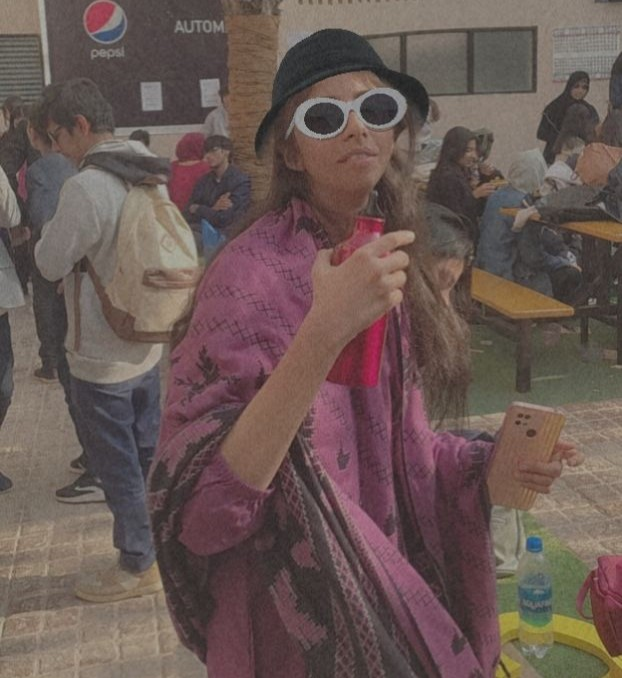
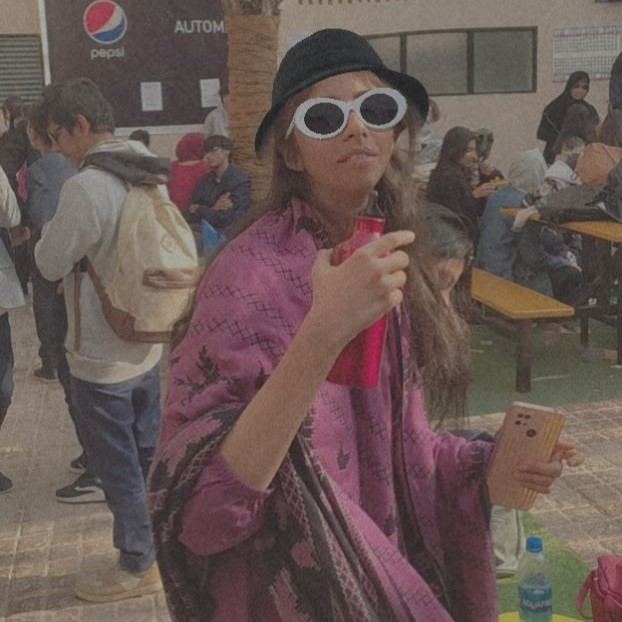
Styled nav bar and main page

diff --git a/style.css b/style.css
@@ -2,8 +2,81 @@
     margin: 0;
     padding: 0;
     box-sizing: border-box;
-    font-family: 'Salsa', cursive;
+    font-family: 'Crete Round', serif;         
+    /* font-family: 'Salsa', cursive; */
+    /* font-family: 'Ubuntu', sans-serif;  */
+    color: #402B3A;
+    color: #3E001F;
 }
-body{
-    background-color: #FF9BD2;
+body {
+    background-image: linear-gradient(90deg, #ff81c6, #ffa1d5);
 }
+
+nav {
+    display: flex;
+    justify-content: center;
+    background: linear-gradient(180deg, #D63484 0%, #D63484 90%, transparent 100%);
+    margin-bottom: 50px;
+}
+
+
+ul{
+    display: flex;
+    justify-content: center;
+    
+}
+ul > li{
+    list-style: none;
+    padding: 20px 10px;
+    font-size: 24px;
+    margin: 0px 15px;
+    cursor: pointer;
+    transition: linear 100ms;
+}
+ul > li:hover{
+    transform: scale(1.2);
+}
+.land{
+    display: flex;
+    /* flex-direction: column; */
+    justify-content: center;
+    align-items: center;
+}
+.image-land > img{
+    border-radius: 5%;
+    height: 570px;
+}
+.items-land{
+    margin: 0px 30px;
+}
+.txt-land > h1{
+    font-size: 50px;
+    font-weight: 100;
+}
+.txt-land > p{
+    font-size: 35px;
+    margin-top: 20px;
+    text-align: center;
+}
+.name{
+
+    font-size: 57px;
+    color: #270303;
+    margin-left: 4px;
+    font-weight: 600;
+
+}
+.txt-land{
+    /* text-align: center; */
+    position: relative;
+    bottom: 20px;
+}
+/* .pakistan{
+    background-image: linear-gradient(90deg, #2e7a10, #2ac603);
+    background-color: #f3ec78;
+    background-size: 100%;
+    -webkit-background-clip: text;
+    -moz-background-clip: text;
+    -webkit-text-fill-color: transparent; 
+    -moz-text-fill-color: transparent;
+} */

diff --git a/index.html b/index.html
@@ -22,12 +22,12 @@
 
         </nav>
         <div class="land">
-            <div class="image-land">
-                <img src="./images/main.jpeg" alt="">
+            <div class="image-land items-land">
+                <img src="./images/shadi.jpeg" alt="">
             </div>
-            <div class="txt-land">
-                <h1>Hey! My name is Shiza Rizwan</h1>
-                <p>A Medical Student based in Pakistan</p>
+            <div class="txt-land items-land">
+                <h1>Hey there! <br> My name is <span class="name">Shiza Rizwan</span></h1>
+                <p>A Medical Student 🩺 based in <span class="pakistan">Pakistan</span></p>
             </div>
         </div>
 

diff --git a/fonts.css b/fonts.css
@@ -1,1 +1,7 @@
-@import url('https://fonts.googleapis.com/css2?family=Salsa&display=swap');
+@import url('https://fonts.googleapis.com/css2?family=Crete+Round:ital@0;1&family=Kanit:ital,wght@0,100;0,200;0,300;0,400;0,500;0,600;0,700;0,800;0,900;1,100;1,200;1,300;1,400;1,500;1,600;1,700;1,800;1,900&family=Salsa&family=Ubuntu:ital,wght@0,300;0,400;0,500;0,700;1,300;1,400;1,500;1,700&display=swap');
+.reference{
+    font-family: 'Crete Round', serif;
+font-family: 'Kanit', sans-serif;
+font-family: 'Salsa', cursive;
+font-family: 'Ubuntu', sans-serif;
+}
